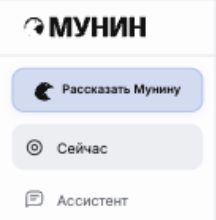
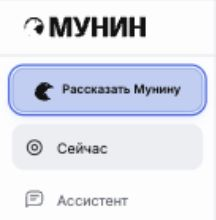
убрать движение птицы при наведении

Changed region(s): [[0.0278, 0.2727, 0.9722, 0.5455], [0.8056, 0.3545, 0.8333, 0.3818]]

diff --git a/docs/design/concept-detail.css b/docs/design/concept-detail.css
@@ -455,10 +455,9 @@ button:focus-visible, input:focus-visible, textarea:focus-visible, a:focus-visib
   border-color: color-mix(in oklch, var(--wave-accent) 42%, var(--line));
   font-weight: 600;
   box-shadow: 0 2px 8px color-mix(in oklch, var(--wave-accent) 10%, transparent);
-  transition: background 180ms ease-out, border-color 180ms ease-out, box-shadow 180ms ease-out, transform 180ms ease-out;
+  transition: background 180ms ease-out, border-color 180ms ease-out, box-shadow 180ms ease-out;
 }
 .sidebar-capture .bird-icon { width: 21px; height: 21px; }
-.sidebar-capture .bird-icon { transition: transform 180ms ease-out; }
 .sidebar-capture:focus-visible {
   outline: 2px solid var(--wave-accent);
   outline-offset: 2px;
@@ -468,15 +467,11 @@ button:focus-visible, input:focus-visible, textarea:focus-visible, a:focus-visib
     background: color-mix(in oklch, var(--wave-accent) 24%, var(--raised));
     border-color: color-mix(in oklch, var(--wave-accent) 70%, var(--line));
     box-shadow: 0 4px 12px color-mix(in oklch, var(--wave-accent) 18%, transparent);
-    transform: translateY(-1px);
   }
-  .sidebar-capture:hover .bird-icon { transform: translateY(-1px) rotate(-6deg); }
 }
-.sidebar-capture:active { transform: translateY(0); box-shadow: none; }
-.sidebar-capture:active .bird-icon { transform: none; }
+.sidebar-capture:active { box-shadow: none; }
 @media (prefers-reduced-motion: reduce) {
-  .sidebar-capture, .sidebar-capture .bird-icon { transition: none; }
-  .sidebar-capture:hover, .sidebar-capture:hover .bird-icon { transform: none; }
+  .sidebar-capture { transition: none; }
 }
 .bird-icon { fill: currentColor; stroke: none; }
 .top .theme[hidden] { display: none; }

diff --git a/docs/design/concept.html b/docs/design/concept.html
@@ -5,7 +5,7 @@
   <meta name="viewport" content="width=device-width, initial-scale=1">
   <meta name="color-scheme" content="dark light">
   <title>Мунин · концепт интерфейса</title>
-  <link rel="stylesheet" href="concept-pages.css?v=20261006-7">
+  <link rel="stylesheet" href="concept-pages.css?v=20261006-8">
   <style>
     :root {
       --background: oklch(0.21 0.01 260); --surface: oklch(0.245 0.01 260);
@@ -238,7 +238,7 @@
     @keyframes next-task { from { opacity: .45; transform: translateY(5px); } to { opacity: 1; transform: translateY(0); } }
     @keyframes completed-mark { 50% { transform: scale(1.25); color: var(--text); } }
   </style>
-  <link rel="stylesheet" href="concept-detail.css?v=20261006-7">
+  <link rel="stylesheet" href="concept-detail.css?v=20261006-8">
 </head>
 <body>
   <svg aria-hidden="true" style="position:absolute;width:0;height:0;overflow:hidden">
@@ -643,8 +643,8 @@
     syncWaves();
     reset();
   </script>
-  <script src="concept-pages.js?v=20261006-7"></script>
-  <script src="concept-controls.js?v=20261006-7"></script>
-  <script src="concept-capture.js?v=20261006-7"></script>
+  <script src="concept-pages.js?v=20261006-8"></script>
+  <script src="concept-controls.js?v=20261006-8"></script>
+  <script src="concept-capture.js?v=20261006-8"></script>
 </body>
 </html>

diff --git a/docs/design/README.md b/docs/design/README.md
@@ -263,4 +263,4 @@ Production-код не менялся. В браузере проверены о
 
 Снимки: [ручное создание](manual-create-mobile.jpg), [ввод рассказа](quick-input-mobile.jpg), [предпросмотр группы](group-editor-mobile.jpg), [рамка меню](quick-actions-mobile.jpg), [маленькая высота окна](shell-short-desktop.jpg), [подсветка из статистики](focus-reveal-desktop.jpg).
 
-Кнопка «Рассказать Мунину» в боковом меню получила синюю подложку и рамку в тон звуковой волне, более плотный текст. Наведение усиливает оттенок и тень, поднимает кнопку на 1 px и слегка поворачивает птицу; нажатие возвращает её на место. Цвет птицы зависит от темы. Фокус с клавиатуры виден отдельной рамкой; при сокращении движения переходы и смещение отключены. В браузере проверены наведение и открытие ввода в обеих темах, сохранение размеров и отсутствие прокрутки меню при высоте 440 px. [Вид кнопки](capture-accent-desktop.jpg).
+Кнопка «Рассказать Мунину» в боковом меню получила синюю подложку и рамку в тон звуковой волне, более плотный текст. Наведение плавно усиливает оттенок и тень, без перемещения кнопки и поворота птицы; нажатие убирает тень. Цвет птицы зависит от темы. Фокус с клавиатуры виден отдельной рамкой; при сокращении движения переходы отключены. В браузере проверены наведение и открытие ввода в обеих темах, сохранение размеров и отсутствие прокрутки меню при высоте 440 px. [Вид кнопки](capture-accent-desktop.jpg).
